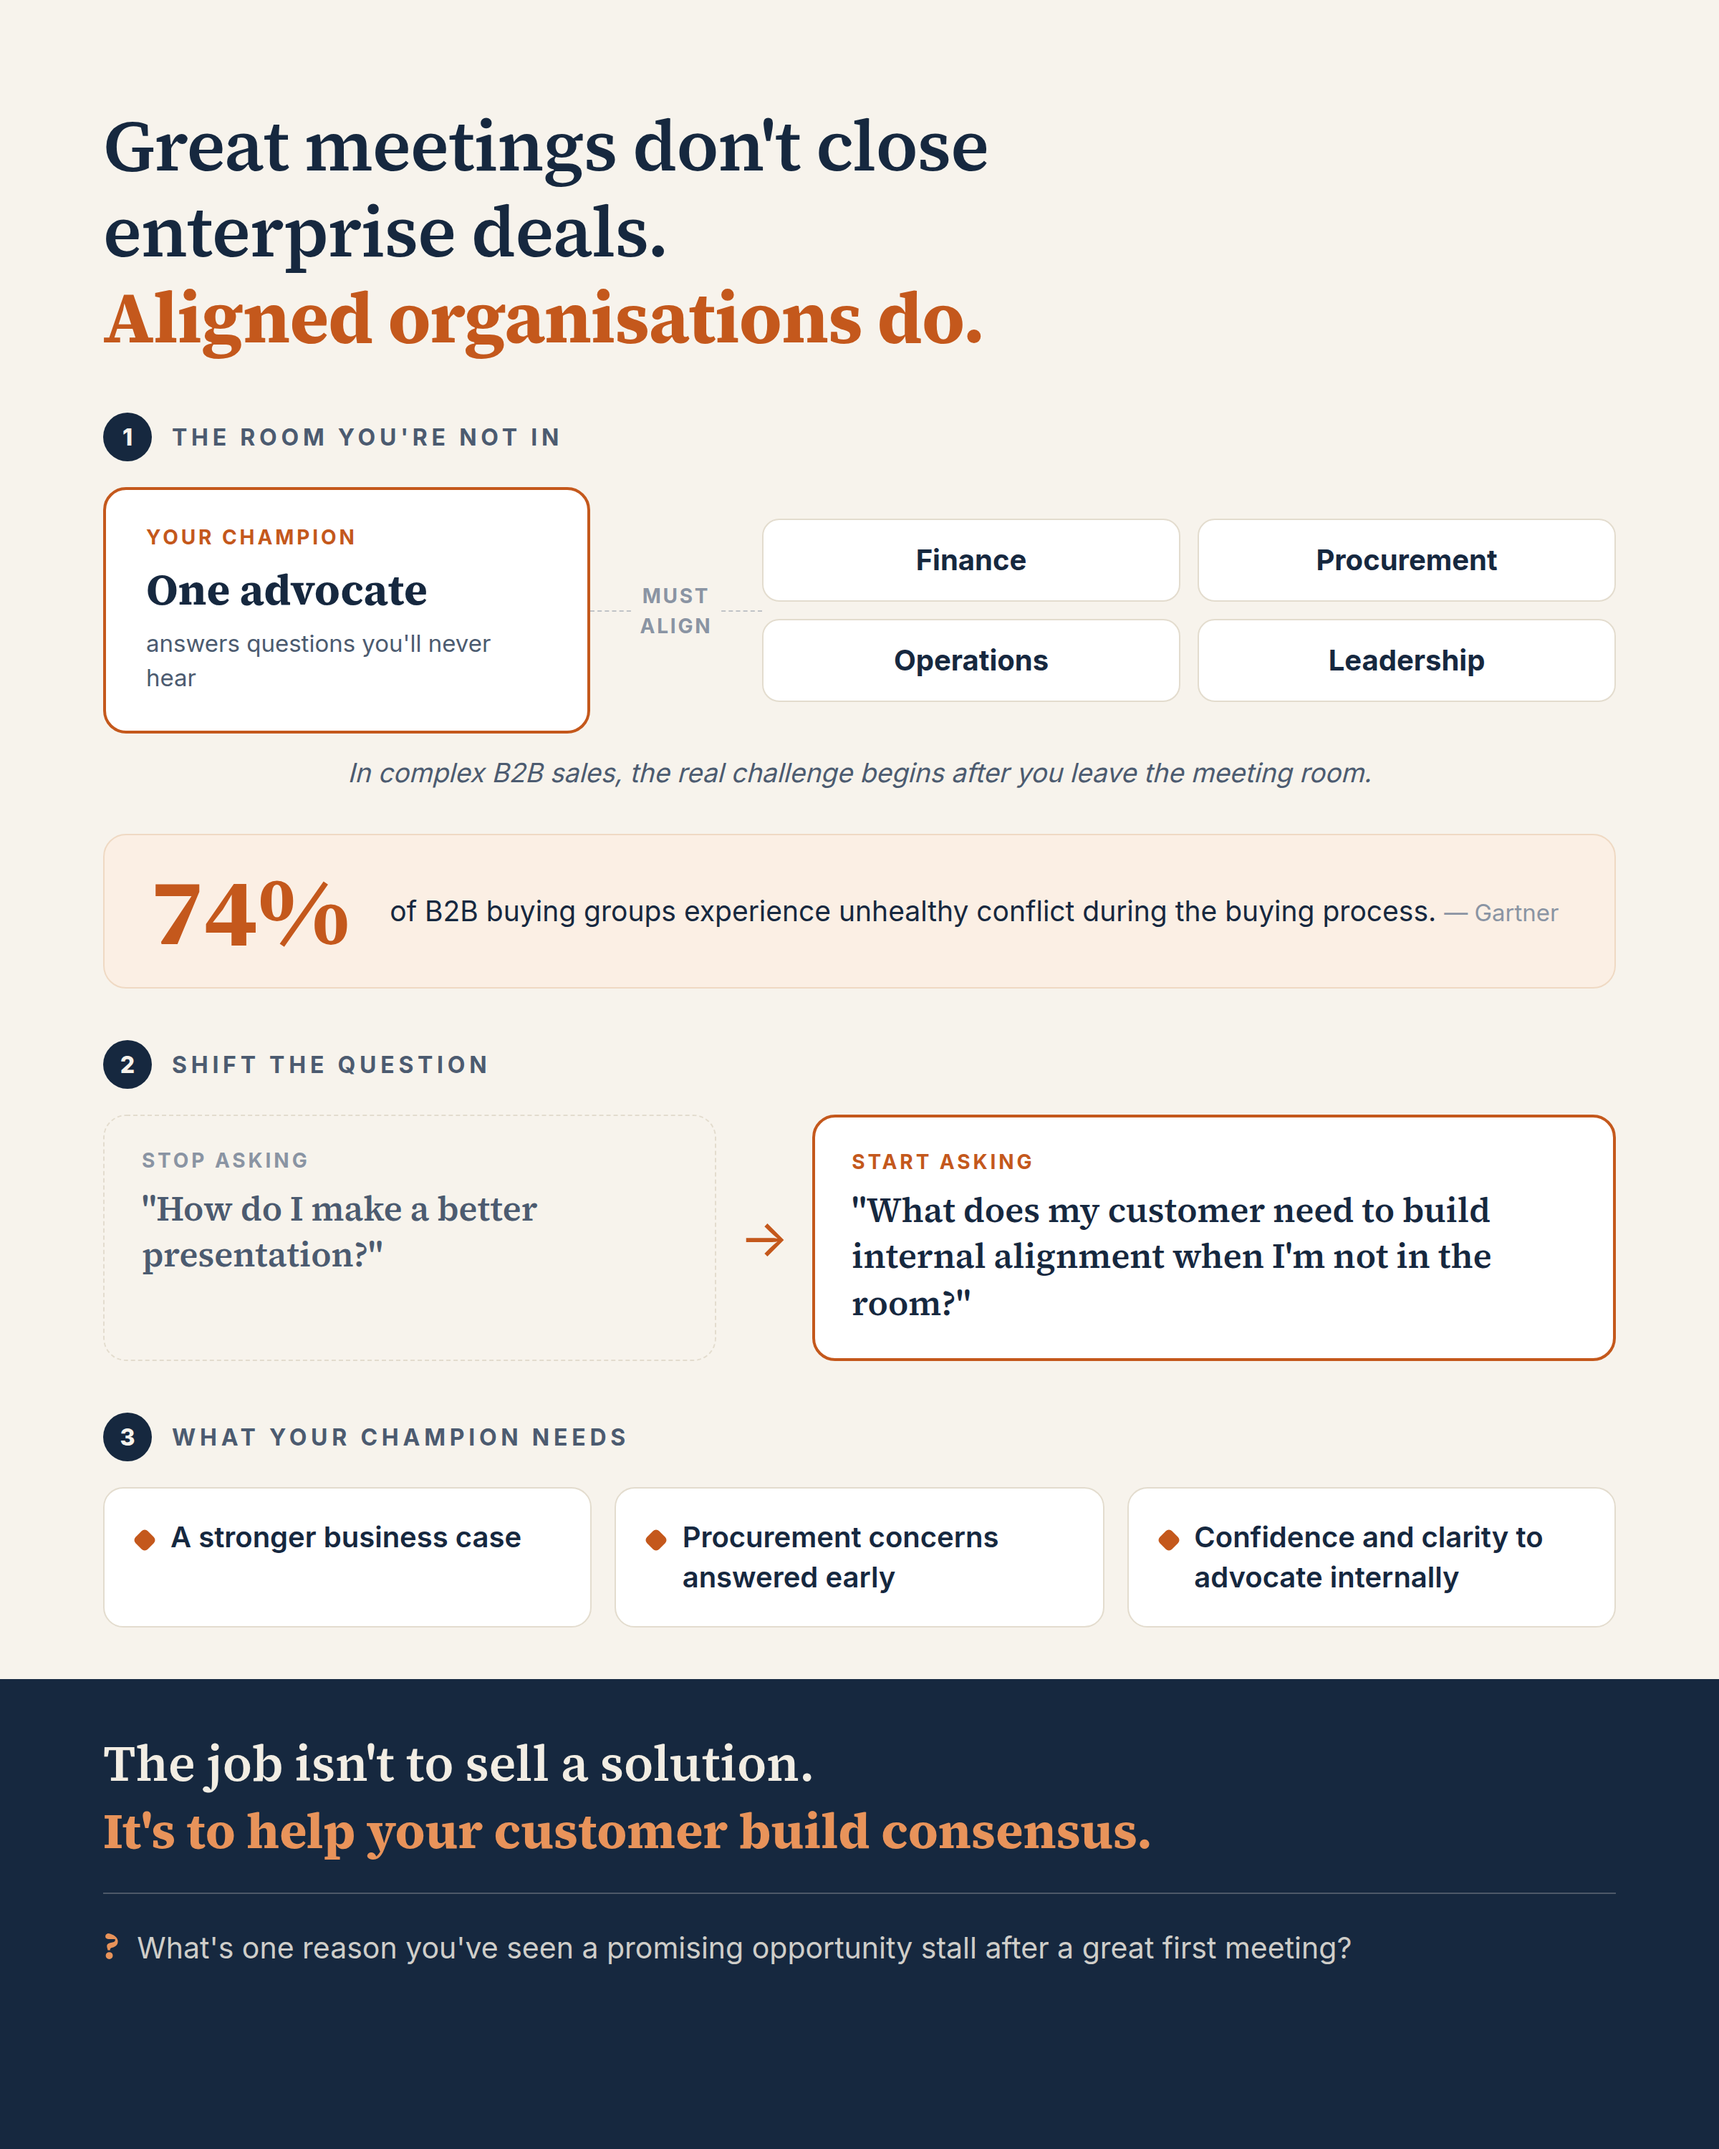
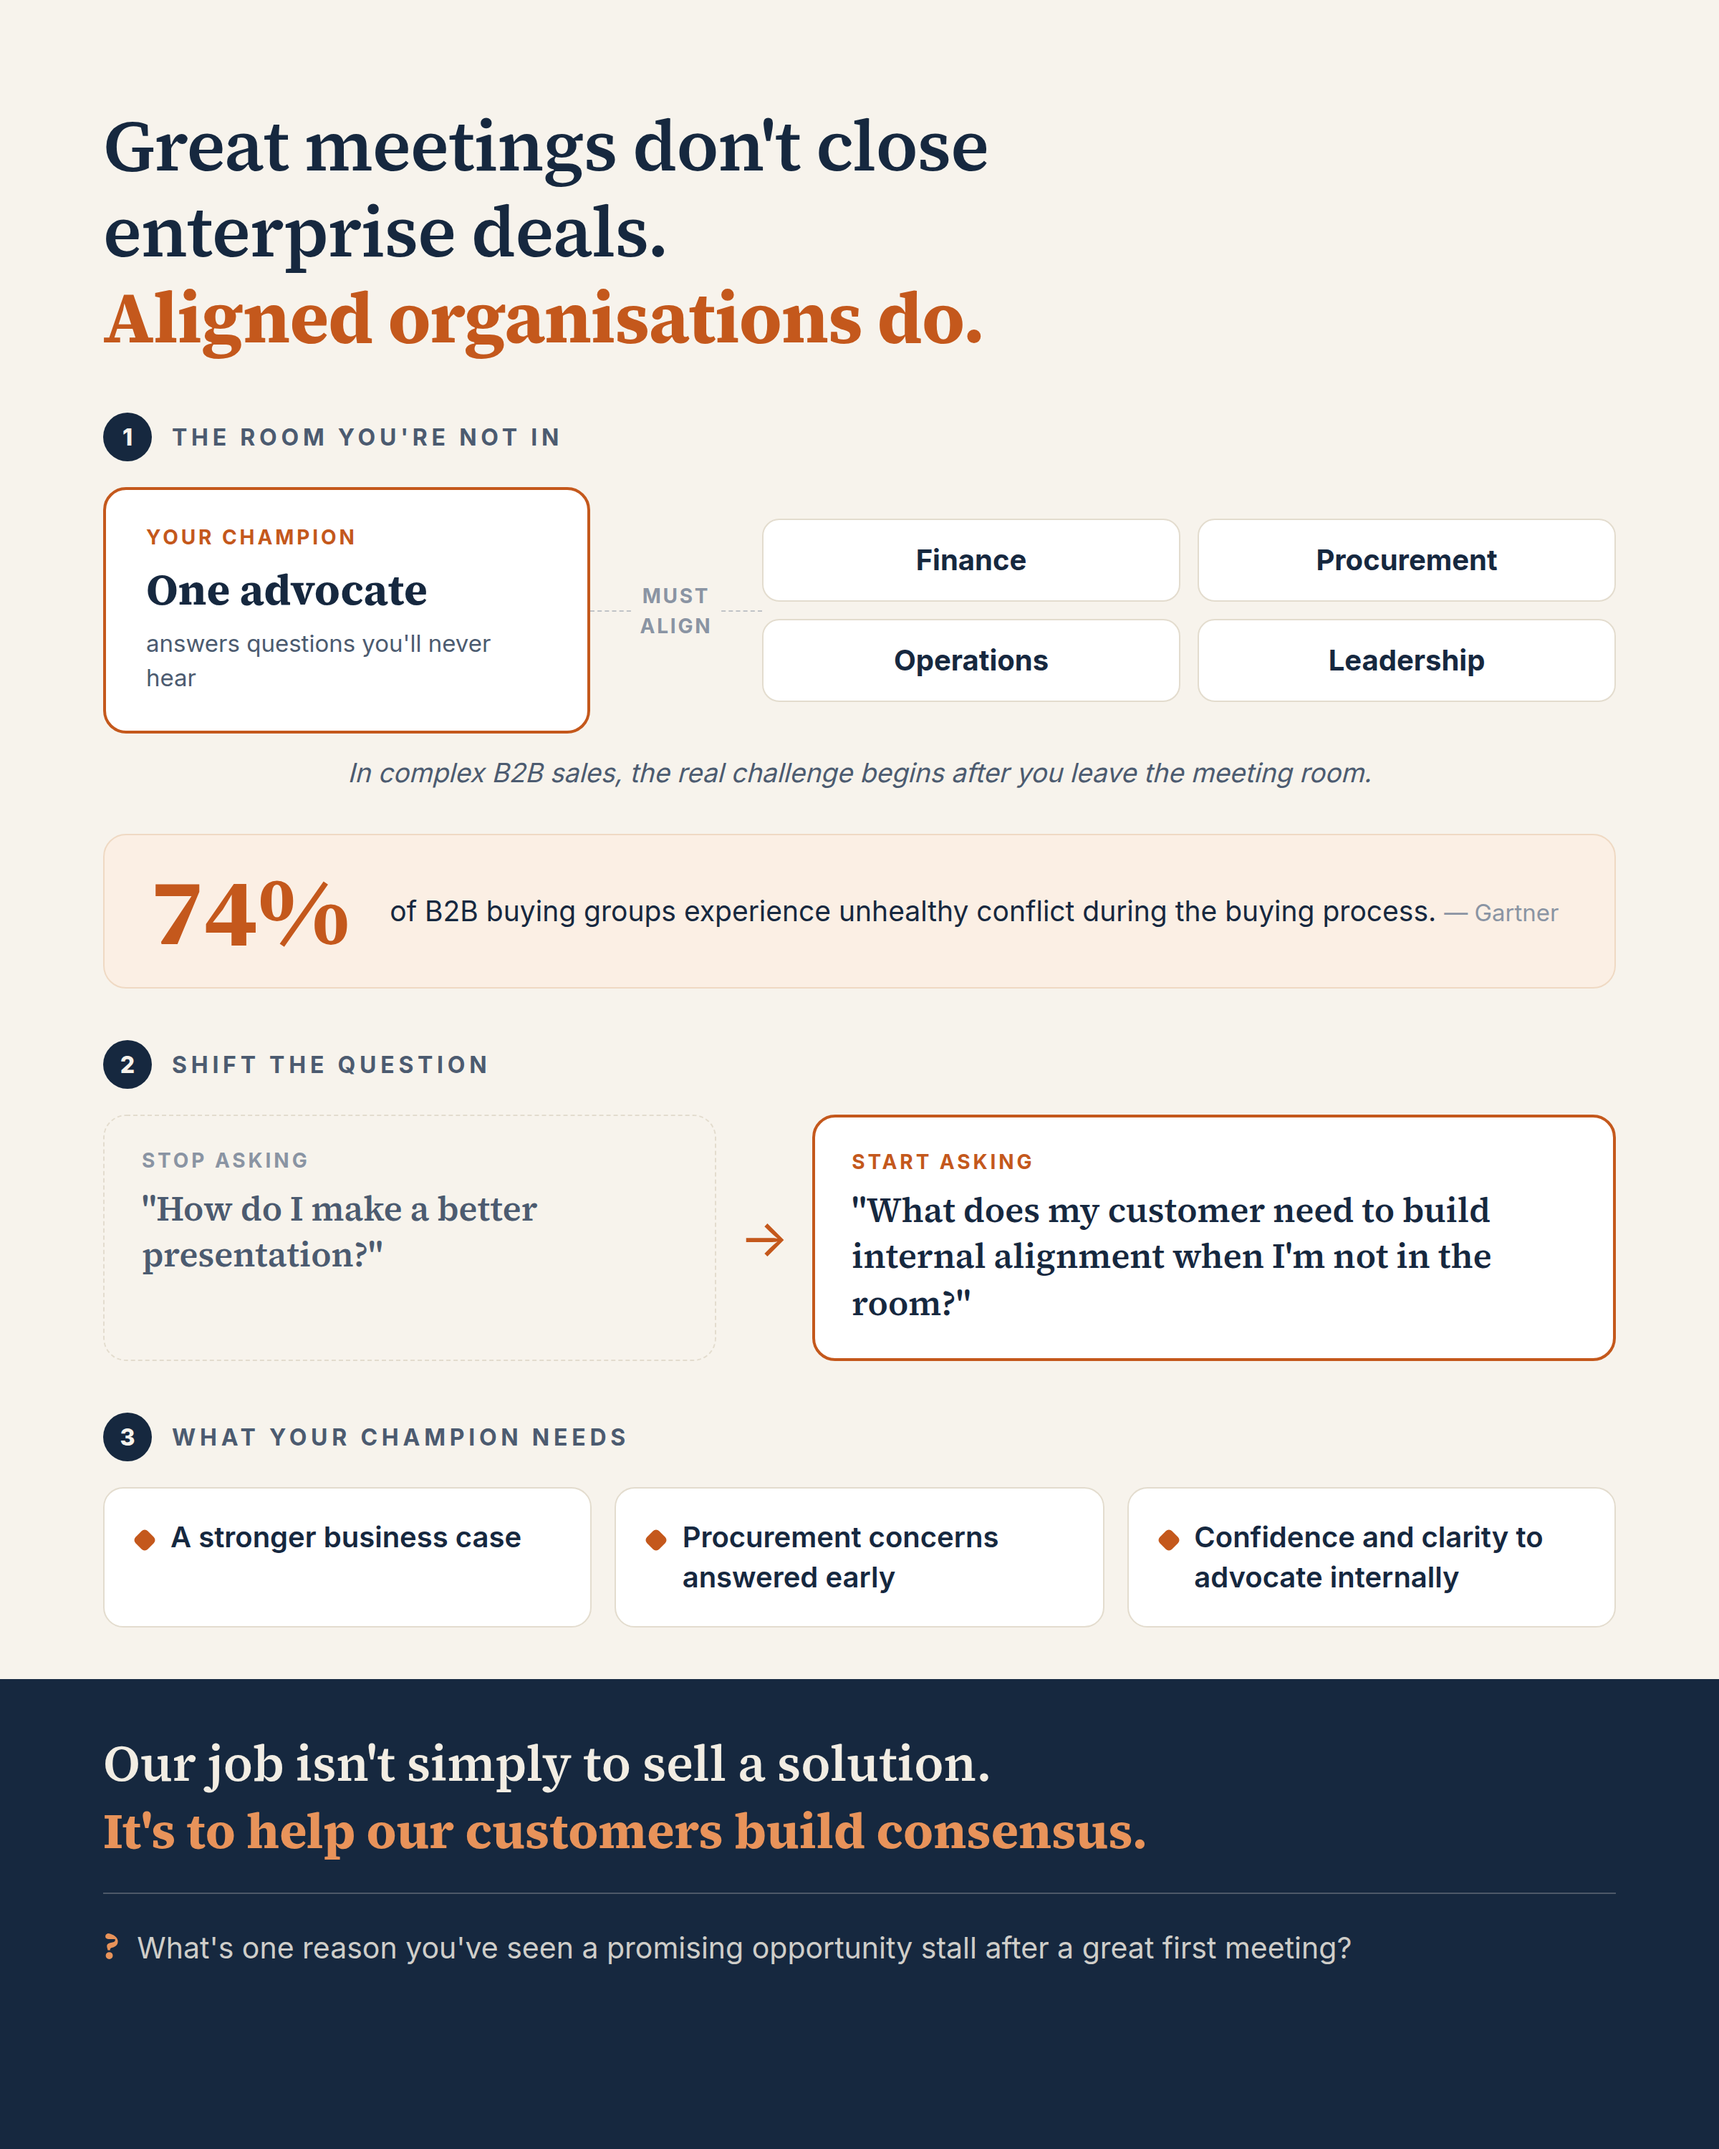
Restore original post phrasing in consensus graphic closer
Claude-Session: https://claude.ai/code/session_01JjrDPGR9Tvsd3yWpYqyBo9

Changed region(s): [[0.2188, 0.806, 0.6562, 0.868], [0.0625, 0.806, 0.125, 0.837]]

diff --git a/linkedin-graphics/consensus/index.html b/linkedin-graphics/consensus/index.html
@@ -202,8 +202,8 @@
   </div>
 
   <div class="closer">
-    <div class="closer-line">The job isn't to sell a solution.<br>
-      <span class="keep">It's to help your customer build consensus.</span></div>
+    <div class="closer-line">Our job isn't simply to sell a solution.<br>
+      <span class="keep">It's to help our customers build consensus.</span></div>
     <div class="closer-q"><span class="qmark">?</span> What's one reason you've seen a promising opportunity stall after a great first meeting?</div>
   </div>
 
